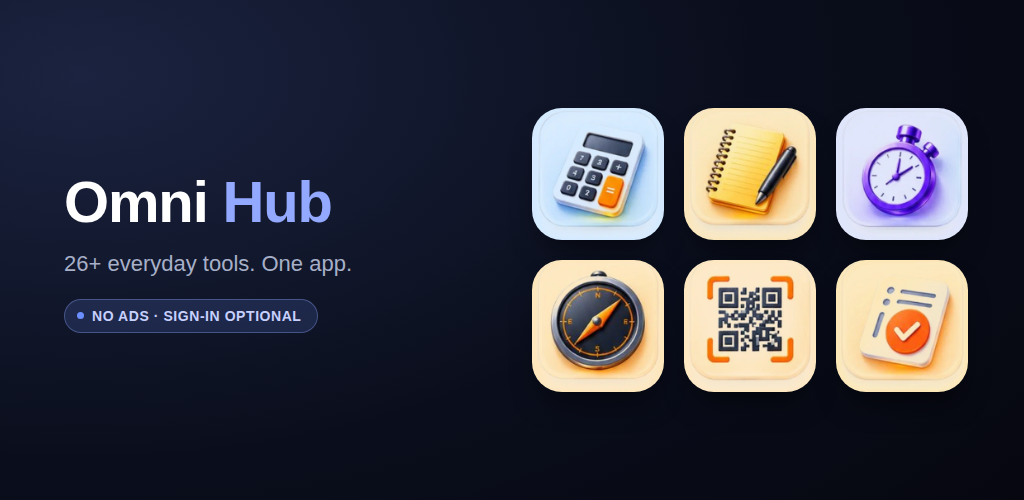
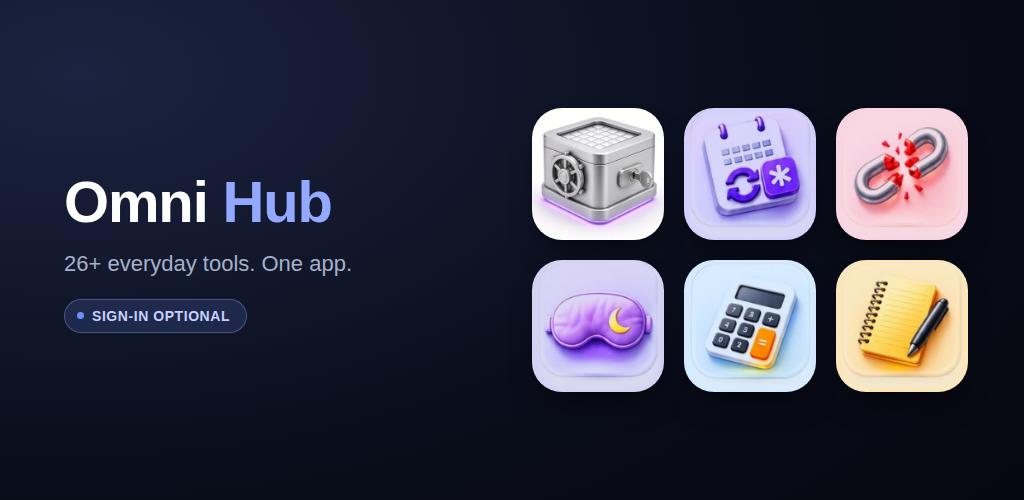
Spotlight Vault/Subscription/Sleep Mode/Debt Tracker, drop "no ads" claims
Feature graphic and full description now lead with Vault, Subscription
Calculator, Sleep Mode, and Debt Tracker as key features. Also removes
every "no ads" promise from marketing copy (short description, full
description, feature graphic badge, ASO tags) since banner ads are
planned soon - keeps the privacy policy and Data Safety answers as-is
since those describe the current build accurately and get updated
separately once ads actually ship.

Claude-Session: https://claude.ai/code/session_01EqVgutfQDkbqqoUGPuBTxu

Changed region(s): [[0.5, 0.21, 0.9688, 0.48], [0.5, 0.51, 0.9375, 0.81], [0.0938, 0.6, 0.3125, 0.69]]

diff --git a/docs/play-store-listing.md b/docs/play-store-listing.md
@@ -3,21 +3,21 @@
 ## Short description (max 80 characters)
 
 ```
-26+ tools in one place — no ads, sign-in optional.
+26+ tools in one place — sign-in optional.
 ```
 
-(51 characters)
+(43 characters)
 
 ## Full description (max 4000 characters)
 
 ```
-Omni Hub is an all-in-one toolbox for everyday tasks — calculator, notes, alarms, a compass, QR scanner, expense tracker, and more — all in one clean, fast app. No ads, no clutter, no account required.
+Omni Hub is an all-in-one toolbox for everyday tasks — a private PIN-locked Vault, Subscription Calculator, Sleep Mode, Debt Tracker, calculator, notes, and more — all in one clean, fast app. No clutter, no account required.
 
 NO ACCOUNT NEEDED
-Sign-up is never required to use Omni Hub. Everything you create is stored on your device, and you're always in control: back up your data to a file whenever you like, or clear it all with one tap. No ads, no tracking, no analytics — ever.
+Sign-up is never required to use Omni Hub. Everything you create is stored on your device, and you're always in control: back up your data to a file whenever you like, or clear it all with one tap. No tracking, no analytics — ever.
 
 OPTIONAL: SYNC ACROSS YOUR DEVICES
-Want your data available on more than one device? Sign in with Google, entirely optional, to sync Notes, Checklist, Expense Tracker, Budget, Subscription Calculator, Debt Tracker, Alarms, and your private Vault automatically. Your Vault stays end-to-end protected — only your already PIN-encrypted data ever leaves your device, and your PIN itself never does. Nothing is shared, sold, or used for ads either way.
+Want your data available on more than one device? Sign in with Google, entirely optional, to sync Notes, Checklist, Expense Tracker, Budget, Subscription Calculator, Debt Tracker, Alarms, and your private Vault automatically. Your Vault stays end-to-end protected — only your already PIN-encrypted data ever leaves your device, and your PIN itself never does. Nothing is shared or sold, ever.
 
 26+ TOOLS
 
@@ -95,4 +95,4 @@ For Play Console's App content ▸ Data safety ▸ "Delete account URL" field. S
 
 ## Tags / keywords (for ASO, not shown to users directly)
 
-calculator, scientific calculator, percentage calculator, unit converter, timer, stopwatch, alarm clock, sleep mode, compass, flashlight, qr scanner, barcode scanner, notes app, checklist, to-do list, expense tracker, budget planner, tip calculator, split bill, subscription tracker, debt tracker, age calculator, date calculator, time zone converter, world clock, random generator, private vault, no ads, privacy
+calculator, scientific calculator, percentage calculator, unit converter, timer, stopwatch, alarm clock, sleep mode, compass, flashlight, qr scanner, barcode scanner, notes app, checklist, to-do list, expense tracker, budget planner, tip calculator, split bill, subscription tracker, debt tracker, age calculator, date calculator, time zone converter, world clock, random generator, private vault, privacy
